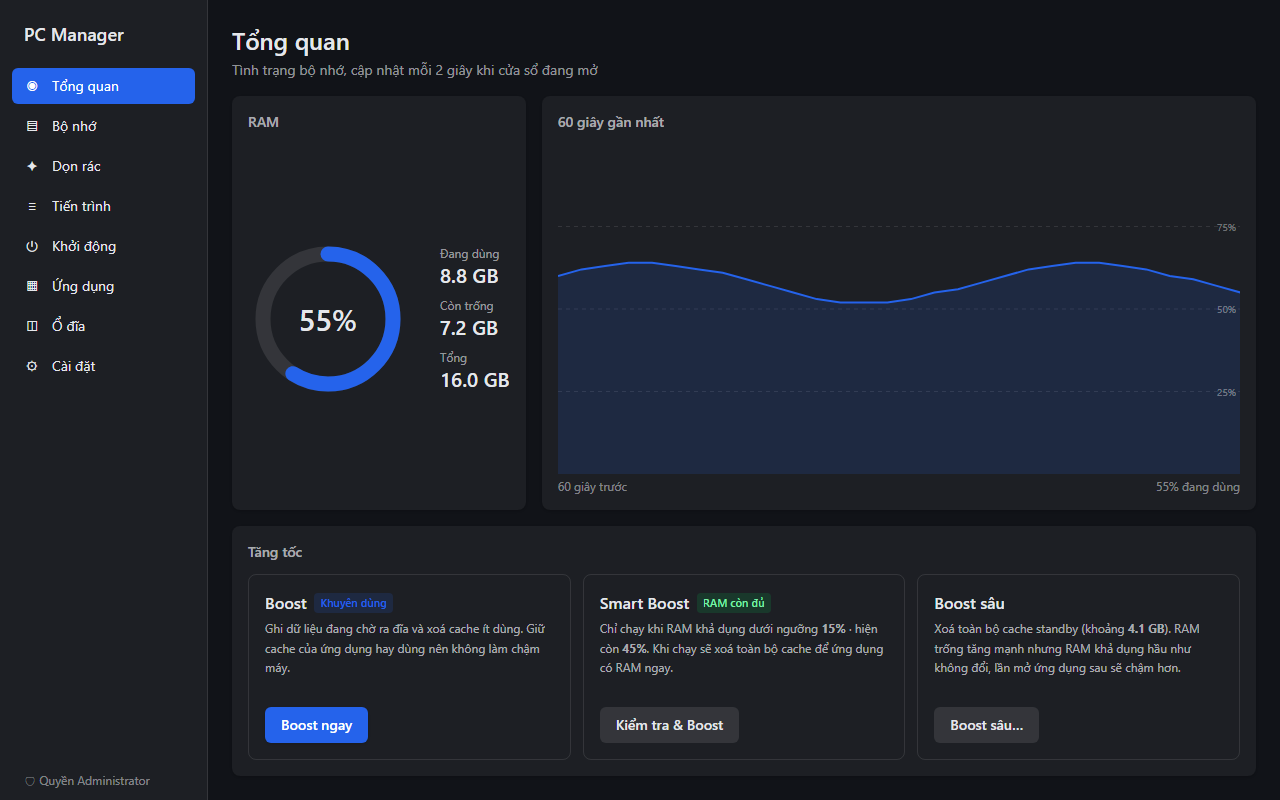
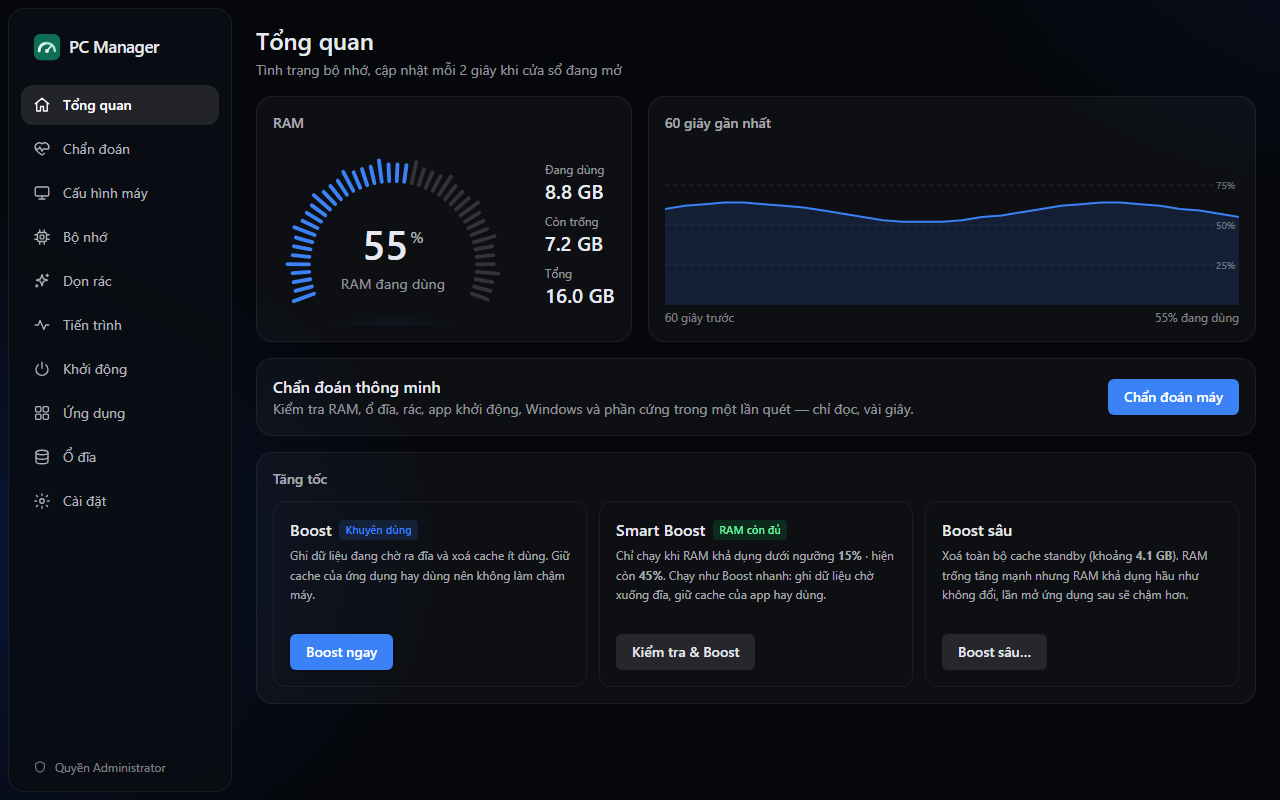
docs: viết lại README (EN + VI) theo v1.2.1 và chụp lại ảnh giao diện
- README.md / README.vi.md: thêm Chẩn đoán thông minh, Cấu hình máy, app Microsoft Store, tự cập nhật
  có kiểm chữ ký, cache nhiều trình duyệt hơn, trình gỡ app HKCU không chạy quyền admin, Smart Boost
  dùng Boost nhẹ, FAQ về WinSxS; mục Screenshots mới.
- docs/screenshots: chụp lại 10 trang (thêm diagnosis, system, memory, startup).
- scripts/screenshots.ps1: chụp đủ 10 trang.
- src/dev/demo.ts: mặc định không hiện dải "có bản mới" (thêm &update để xem); sửa phiên bản và
  tên rule cho khớp bản hiện tại.

diff --git a/src/dev/demo.ts b/src/dev/demo.ts
@@ -122,7 +122,7 @@ const cleanerScan = {
     rule("edge-cache", "Cache Microsoft Edge", "Trình duyệt", "low", 318 * MB, 2210),
     rule("crash-dumps", "Bản ghi lỗi ứng dụng (crash dump)", "Bản ghi lỗi", "low", 640 * MB, 6),
     rule("wer-user", "Báo cáo lỗi Windows (của bạn)", "Bản ghi lỗi", "low", 58 * MB, 37),
-    rule("windows-update-cache", "Bản cập nhật Windows đã cài", "Windows Update", "medium", 2.31 * GB, 128, { usesService: true }),
+    rule("windows-update-cache", "Bản cập nhật Windows đã tải", "Windows Update", "medium", 2.31 * GB, 128, { usesService: true }),
     rule("recycle-bin", "Thùng rác", "Thùng rác", "high", 1.05 * GB, 64, { defaultSelected: false }),
   ],
 };
@@ -217,7 +217,7 @@ const drives = [
 let tick = 0;
 let diagRuns = 0;
 const handlers: Record<string, (args: Record<string, unknown>) => unknown> = {
-  app_info: () => ({ version: "1.0.0", isElevated: true, pid: 4321, startPage: page }),
+  app_info: () => ({ version: "1.2.1", isElevated: true, pid: 4321, startPage: page }),
   memory_status: () => memory(Math.round(58 + 6 * Math.sin(tick++ / 3))),
   memory_settings: () => ({ smartThresholdPct: 15, smartAuto: true }),
   process_list: () => processes,
@@ -230,13 +230,14 @@ const handlers: Record<string, (args: Record<string, unknown>) => unknown> = {
   recent_actions: () => actions,
   jobs_snapshot: () => [],
   update_check: () => ({
-    current: "1.1.3",
-    available: { version: "1.2.0", notes: "### Bảo mật\n- Gỡ app cài riêng cho người dùng luôn chạy với quyền thường.\n\n### Thay đổi\n- Tác vụ dài có tiến độ và nối lại được.", dateMs: now - DAY },
+    current: "1.2.1",
+    // Mặc định không có bản mới (ảnh README); thêm `&update` vào URL để xem dải thông báo cập nhật.
+    available: !params.has("update") ? null : { version: "1.3.0", notes: "### Bảo mật\n- Gỡ app cài riêng cho người dùng luôn chạy với quyền thường.\n\n### Thay đổi\n- Tác vụ dài có tiến độ và nối lại được.", dateMs: now - DAY },
     auto: true,
     lastCheckMs: now - 60_000,
     configured: true,
   }),
-  update_set_auto: (args) => ({ current: "1.1.3", available: null, auto: !!args.enabled, lastCheckMs: now - 60_000, configured: true }),
+  update_set_auto: (args) => ({ current: "1.2.1", available: null, auto: !!args.enabled, lastCheckMs: now - 60_000, configured: true }),
   system_windows_old_info: () => ({ path: "C:\\Windows.old", exists: false, bytes: null }),
   diagnosis_run: () => {
     diagRuns++;

diff --git a/README.md b/README.md
@@ -6,8 +6,8 @@
 
 **A lightweight, safety-first maintenance tool for Windows 10 and 11.**
 
-Monitor memory, clean junk files, manage processes and startup apps, find unused apps,<br>
-large files and duplicates — in a 2.5 MB installer that idles at a few megabytes of RAM.
+Check your PC's health in one scan, monitor memory, clean junk files, manage processes and startup apps,<br>
+find unused apps, large files and duplicates — in a ~3.8 MB installer that idles at about 10 MB of RAM.
 
 [![Release](https://img.shields.io/github/v/release/bachxuantrann/pc-manager?label=release)](https://github.com/bachxuantrann/pc-manager/releases/latest)
 [![CI](https://github.com/bachxuantrann/pc-manager/actions/workflows/ci.yml/badge.svg)](https://github.com/bachxuantrann/pc-manager/actions/workflows/ci.yml)
@@ -20,12 +20,13 @@ large files and duplicates — in a 2.5 MB installer that idles at a few megabyt
 
 ![PC Manager dashboard](docs/screenshots/dashboard.png)
 
-> The app's interface is currently in Vietnamese. This documentation is available in several languages.
+> The app's interface is currently in Vietnamese. This documentation is available in English and Vietnamese.
 
 ## Contents
 
 - [Highlights](#highlights)
 - [Features](#features)
+- [Screenshots](#screenshots)
 - [Installation](#installation)
 - [Administrator rights](#administrator-rights)
 - [Safety](#safety)
@@ -36,38 +37,59 @@ large files and duplicates — in a 2.5 MB installer that idles at a few megabyt
 
 ## Highlights
 
-- **Lightweight.** ~2.5 MB installer. In the system tray the app uses roughly 2–15 MB of RAM;
-  closing the window releases the UI engine entirely.
+- **Lightweight.** ~3.8 MB installer. In the system tray the app uses about 10 MB of RAM;
+  closing the window releases the UI engine (WebView2) entirely.
 - **Safe by design.** Deletes only what fixed rules allow, always shows a preview first,
   sends anything you pick by hand to the Recycle Bin, and logs every change.
 - **No admin prompt on launch.** Runs as a standard user and asks for elevation only when a
   feature actually needs it.
-- **Honest.** Reports the real gain of every action instead of inflated "freed" numbers.
+- **Honest.** Reports the real gain of every action instead of inflated "freed" numbers, and only
+  recommends a fix when it can actually help.
+- **Local and private.** No telemetry, no accounts. The only network request is an optional update
+  check to github.com.
 
 ## Features
 
 | Area | What it does |
 |---|---|
 | **Dashboard and memory** | Live RAM usage, available and standby memory, 60-second history; Boost, Smart Boost and Deep Boost |
-| **Junk cleaner** | Temp files, browser caches, crash dumps, logs, Windows Update cache, Recycle Bin. Preview before cleaning, dry-run mode. Deep clean of WinSxS (via DISM) and `Windows.old` (via Disk Cleanup) |
+| **Smart Diagnosis** | One read-only scan (about 0.2 s) of RAM, drives, junk, startup apps, unused apps, Windows state and hardware. Each finding explains *why*, with numbers, and opens the right page to fix it. Re-scan to see what improved. *Deep scan* adds a WinSxS analysis (needs administrator rights) |
+| **System information** | Windows edition and build, CPU, GPU, motherboard and BIOS, every RAM slot (capacity, DDR4/DDR5, real and rated speed), drives (NVMe/SATA, SSD/HDD). One click copies the configuration; no serial numbers or machine name are collected |
+| **Junk cleaner** | Temp files, thumbnail and shader caches, crash dumps, logs, browser caches (Chrome, Edge, Brave, Vivaldi, Cốc Cốc, Opera, Firefox), Windows Update cache, Recycle Bin. Preview before cleaning, dry-run mode. Deep clean of WinSxS (via DISM) and `Windows.old` (via Disk Cleanup), with real progress |
 | **Processes** | CPU and memory per process, publisher (digital signature), end, suspend and resume, priority, trim working set, open file location |
-| **Startup apps** | Registry, Startup folders, scheduled tasks and services; enable or disable the same way Task Manager does |
-| **Installed apps** | Size, install date and last-used date; filter apps you have not used for months; uninstall, then clean up leftovers |
+| **Startup apps** | Registry, Startup folders, scheduled tasks, services and Microsoft Store apps; enable or disable the same way Task Manager does |
+| **Installed apps** | Classic and Microsoft Store apps with size, install date and last-used date; filter apps you have not used for months; uninstall, then clean up leftovers |
 | **Disk** | Drive usage, largest files, content-identical duplicates (BLAKE3); remove to the Recycle Bin |
-| **Settings** | Smart Boost threshold, scheduled cleaning, start with Windows, protected folders, activity log |
+| **Settings** | Dark / light / follow-Windows theme, Smart Boost threshold, scheduled cleaning, start with Windows, protected folders, in-app updates, activity log |
+
+Long tasks (scans, cleaning, DISM) show a progress bar and **keep running when you close the
+window** to the tray — reopen it and you see the progress or the result.
+
+## Screenshots
 
 <table>
   <tr>
+    <td><img src="docs/screenshots/diagnosis.png" alt="Smart Diagnosis with explained recommendations"></td>
+    <td><img src="docs/screenshots/system.png" alt="System information"></td>
+  </tr>
+  <tr>
     <td><img src="docs/screenshots/cleaner.png" alt="Junk cleaner with preview"></td>
-    <td><img src="docs/screenshots/disk.png" alt="Duplicate finder"></td>
+    <td><img src="docs/screenshots/memory.png" alt="Memory page"></td>
+  </tr>
+  <tr>
+    <td><img src="docs/screenshots/processes.png" alt="Process manager"></td>
+    <td><img src="docs/screenshots/startup.png" alt="Startup apps"></td>
   </tr>
   <tr>
     <td><img src="docs/screenshots/apps.png" alt="Installed apps with last-used date"></td>
-    <td><img src="docs/screenshots/settings.png" alt="Settings and activity log"></td>
+    <td><img src="docs/screenshots/disk.png" alt="Large and duplicate files"></td>
+  </tr>
+  <tr>
+    <td colspan="2"><img src="docs/screenshots/settings.png" alt="Settings, updates and activity log"></td>
   </tr>
 </table>
 
-<sub>Screenshots use demo data, not data from a real machine.</sub>
+<sub>Screenshots use demo data, not data from a real machine. Dark theme shown; a light theme is available.</sub>
 
 ## Installation
 
@@ -82,7 +104,13 @@ large files and duplicates — in a 2.5 MB installer that idles at a few megabyt
 **Requirements:** Windows 10 or 11 (x64) and the Microsoft Edge WebView2 Runtime, which ships
 with Windows 11 and is downloaded automatically by the installer if missing.
 
-**Updating:** run the new installer over the existing one; settings and the activity log are kept.
+**Updating:** PC Manager checks GitHub for a newer release (at most once a day, only while its
+window is open; you can turn this off in *Settings*). When one exists, a banner appears; click
+**Update** to download it. The installer is **signature-verified** before it runs, Windows asks for
+UAC, and the app reopens afterwards. Nothing is ever installed without your click, and your
+settings, activity log and *Start with Windows* option are kept. You can also just run a new
+installer over the old one.
+
 **Uninstalling:** use *Settings → Apps* like any other app. The start-with-Windows task, if
 enabled, is removed as well.
 
@@ -97,7 +125,11 @@ enabled, is removed as well.
 Features that need administrator rights: memory Boost, cleaning system locations
 (`Windows\Temp`, system crash dumps, Windows Update cache), reading Prefetch, changing
 machine-wide startup entries, acting on system processes, uninstalling machine-wide apps,
-and WinSxS cleanup. Everything else works without elevation.
+Deep scan and WinSxS cleanup. Everything else works without elevation.
+
+On a work PC where you sign in as a standard user and elevate with a *different* admin account,
+everything "personal" — settings, activity log, Recycle Bin, per-user apps and registry — still
+belongs to the account you are signed in with, not the admin account.
 
 ## Safety
 
@@ -107,20 +139,31 @@ guarded in code. Summary below; full details in **[docs/SAFETY.md](docs/SAFETY.m
 - **Rule-based cleaning only.** The cleaner deletes files matching fixed rules in
   [`rules/cleaner.toml`](rules/cleaner.toml), compiled into the app. No command accepts an
   arbitrary path from the UI for deletion.
-- **Scan → preview → confirm → delete**, with a dry-run mode.
+- **Scan → preview → confirm → delete**, with a dry-run mode. Diagnosis itself is read-only and
+  changes nothing; its buttons only open the right page, where you still preview and confirm.
 - **Never follows** symlinks, junctions or reparse points; skips locked files, files newer than
   the rule's age threshold, and files changed after the scan.
-- **Hard block list:** `System32`, `SysWOW64`, `WinSxS` (cleaned only through DISM), `Prefetch`,
-  the user-profile root, personal folders (Documents, Desktop, Pictures…), `Program Files`,
-  and every drive root. You can add your own **protected folders**.
+- **Hard block list:** `System32`, `SysWOW64`, `WinSxS` (cleaned only through DISM, never
+  `/ResetBase`), `Prefetch`, the user-profile root, personal folders (Documents, Desktop,
+  Pictures…), `Program Files`, and every drive root. You can add your own **protected folders**.
 - **Recycle Bin, not permanent deletion,** for large and duplicate files and for leftovers
   after uninstalling an app. Registry keys are exported to a `.reg` backup before removal.
+- **Per-user uninstallers never run as administrator.** When PC Manager has admin rights, the
+  uninstaller of an app installed for your account only runs under your normal account, like
+  Windows Settings does — a per-user uninstall command can be edited by any program you run, so
+  running it elevated would be a privilege-escalation path.
 - **Critical processes are protected** (`csrss`, `wininit`, `winlogon`, `lsass`, `smss`,
-  `services`, System). Disabling a startup entry never deletes the original.
-- **Every change is logged** locally and visible under *Settings → Activity log*.
-- **Tested.** 140+ automated tests, including sandboxed tests of the file-selection logic
+  `services`, System) and so is PC Manager itself. Disabling a startup entry never deletes the
+  original.
+- **Browser caches only.** Cookies, history, passwords, IndexedDB and Local Storage are never
+  touched, and a browser that is running is skipped.
+- **Every change is logged** locally (SQLite, newest 5,000 entries) and visible under
+  *Settings → Activity log*.
+- **Signed updates.** The in-app updater only runs an installer whose minisign signature matches
+  the public key built into the app.
+- **Tested.** 200+ automated tests, including sandboxed tests of the file-selection logic
   (junctions, locked files, young files, blocked folders, files modified after a scan),
-  run on every push.
+  run on every push together with clippy and a UI build.
 
 To report a security issue, see [SECURITY.md](SECURITY.md).
 
@@ -133,7 +176,10 @@ Windows already manages memory well, so PC Manager does not promise miracles:
 - **Deep Boost** drops the *entire* standby cache. "Free" memory jumps, but **available memory
   barely changes** (standby cache already counts as available) and apps load more slowly the
   next time. Use it only when you have a specific reason.
-- **Smart Boost** runs only when available memory falls below a threshold (15% by default), using the light Boost.
+- **Smart Boost** runs only when available memory falls below a threshold (15% by default), using
+  the light Boost — never the deep one, because emptying the cache when RAM is low does not give
+  apps more memory. When memory is really tight, Diagnosis points you to the heaviest
+  processes instead.
 - Every result separates **"available memory gained"** (the real benefit) from
   **"cache cleared"**.
 - **Trim working set** applies only to processes you select, never in bulk.
@@ -157,11 +203,21 @@ certificate. Compare the SHA-256 checksum on the release page, or build from sou
 </details>
 
 <details>
+<summary><b>Diagnosis keeps suggesting "clean WinSxS", but cleaning frees nothing. Why?</b></summary>
+
+DISM often reports "cleanup recommended" even when `StartComponentCleanup` has nothing left it is
+allowed to remove — for example packages Windows still holds, or a pending restart. PC Manager
+remembers the outcome of earlier cleanups and only recommends WinSxS cleanup when it can actually
+reclaim space; while Windows is waiting for a restart it tells you to restart first.
+</details>
+
+<details>
 <summary><b>How much memory does PC Manager itself use?</b></summary>
 
-About 2–15 MB while running in the tray. With the window open, about 75–80 MB, most of it the
-WebView2 engine that renders the UI; it releases memory when the window loses focus and is
-shut down completely when you close the window.
+About 10 MB while running in the tray. With the window open, add roughly 100 MB for the WebView2
+engine that renders the UI; it releases memory when the window loses focus and is shut down
+completely when you close the window. Measurements per release are in
+[docs/PERF.md](docs/PERF.md).
 </details>
 
 <details>
@@ -190,7 +246,11 @@ npm install
 npm run tauri build   # installer: src-tauri/target/release/bundle/nsis/
 ```
 
-See **[CONTRIBUTING.md](CONTRIBUTING.md)** for development, tests, CI and releases.
+You can browse the interface without the backend using demo data:
+`npm run dev`, then open `http://localhost:1420/?demo&page=diagnosis`.
+
+See **[CONTRIBUTING.md](CONTRIBUTING.md)** for development, tests, CI and releases, and
+[`docs/PLAN.md`](docs/PLAN.md) for the improvement plan.
 
 Built with [Tauri 2](https://tauri.app), [React](https://react.dev), [Rust](https://www.rust-lang.org)
 and [windows-rs](https://github.com/microsoft/windows-rs).
